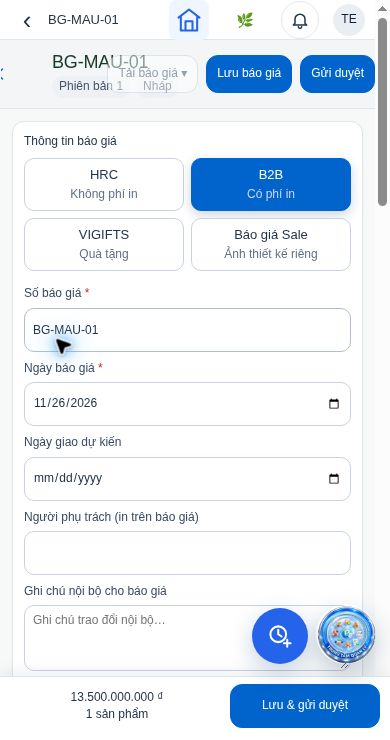
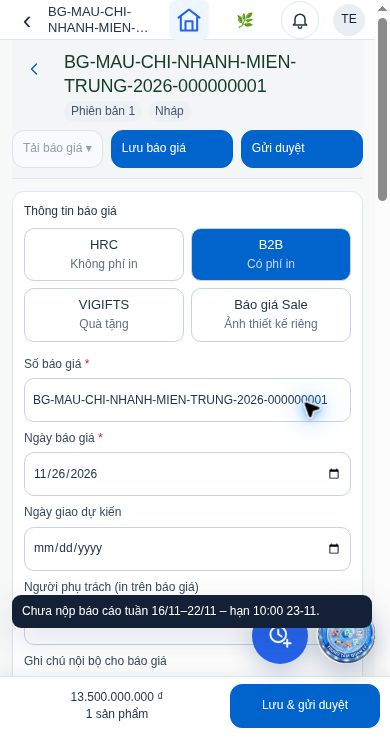
Tách hàng thao tác khỏi tiêu đề báo giá trên điện thoại

diff --git a/trial-ui/visual-theme.css b/trial-ui/visual-theme.css
@@ -108,3 +108,30 @@
     #view-dashboard .dash-quotes { grid-area: auto; justify-self: start; }
   }
 }
+
+@media screen and (max-width: 850px) {
+  #view-editor #quote-form .editor-head {
+    display: grid;
+    grid-template-columns: auto minmax(0, 1fr);
+    align-items: start;
+    margin-inline: 0;
+  }
+  #view-editor #quote-form .editor-title {
+    display: flex;
+    flex-wrap: wrap;
+    min-width: 0;
+  }
+  #view-editor .editor-title h1 {
+    flex-basis: 100%;
+    min-width: 0;
+    white-space: normal;
+    overflow-wrap: anywhere;
+  }
+  #view-editor #quote-form .editor-head .back { font-size: 0; padding: 0; }
+  #view-editor .editor-head > .quote-actions {
+    grid-column: 1 / -1;
+    min-width: 0;
+    max-width: 100%;
+    flex-wrap: wrap;
+  }
+}
